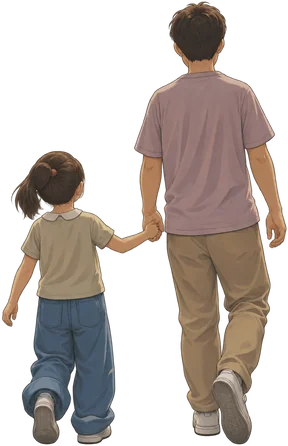
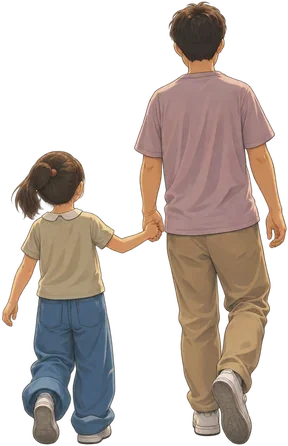
Polish family lighting, mobile layouts and social sharing

diff --git a/assets/site.css b/assets/site.css
@@ -58,9 +58,9 @@ a:focus-visible { outline: 2px solid var(--accent); outline-offset: 6px; }
 .mountains { position: absolute; left: 0; bottom: 0; width: 100%; height: 49%; object-fit: fill; }
 .ridge-light { opacity: 1; }
 .travelers { position: absolute; left: 73%; bottom: 8.5%; width: clamp(52px, 5.1vw, 82px); isolation: isolate; }
-.cast-shadow { position: absolute; z-index: -1; top: 95.5%; left: 0; width: 127%; height: auto; }
+.cast-shadow { position: absolute; z-index: -1; top: 97%; left: 2%; width: 119%; height: auto; opacity: .72; }
 .traveler { display: block; width: 100%; height: auto; }
-.contact-shadow { position: absolute; z-index: -1; bottom: 1%; left: 9%; width: 84%; height: 5%; background: radial-gradient(ellipse, #48352666, #48352600 72%); }
+.contact-shadow { position: absolute; z-index: -1; bottom: .6%; left: 12%; width: 78%; height: 3.6%; background: radial-gradient(ellipse, #48352670, #48352600 72%); }
 .header { position: relative; display: flex; align-items: center; justify-content: space-between; padding: 40px 4.5%; }
 .brand { display: inline-flex; align-items: center; gap: 11px; color: var(--ink); text-decoration: none; font: 500 14px/1 var(--sans); letter-spacing: .12em; }
 .brand-dot { color: var(--accent); }
@@ -96,8 +96,8 @@ time { font: 400 15px/1.5 Georgia, "Times New Roman", serif; letter-spacing: .17
   .travelers { bottom: 8.3%; }
 }
 @media (max-width: 600px) {
-  .page { min-height: 680px; }
-  .header { padding: 25px 24px; }
+  .page { min-height: 520px; }
+  .header { padding: max(25px, env(safe-area-inset-top)) max(24px, env(safe-area-inset-right)) 25px max(24px, env(safe-area-inset-left)); }
   .brand { font-size: 11px; gap: 8px; }
   .hero { top: 16%; left: 0; width: 100%; text-align: center; }
   .eyebrow { justify-content: center; margin: 0 0 12px; font-size: 8px; }
@@ -112,6 +112,24 @@ time { font: 400 15px/1.5 Georgia, "Times New Roman", serif; letter-spacing: .17
   .travelers { left: auto; right: 13%; bottom: 6.7%; width: 54px; }
   .side-note { display: none; }
   @keyframes sunrise { from { transform: translateY(42px); opacity: .55; } to { transform: translateY(0); opacity: 1; } }
+}
+/* Short phones keep the date above the sunrise without scrolling. */
+@media (max-width: 600px) and (max-height: 700px) {
+  .hero { top: 14%; }
+  h1 { font-size: clamp(110px, 29vw, 126px); }
+  .eyebrow { margin-bottom: 8px; }
+  .subtitle { margin-top: 12px; font-size: 16px; }
+  .date-line { margin-top: 16px; }
+  .sun-travel { top: 60%; left: calc(49% - 43px); width: 86px; }
+  .mountains { height: 40%; }
+  .travelers { width: 48px; }
+}
+/* Tall phones retain a connected composition instead of stretching the sky. */
+@media (max-width: 600px) and (min-height: 850px) {
+  .hero { top: 18%; }
+  .sun-travel { top: 57%; }
+  .mountains { height: 44%; }
+  .travelers { bottom: 7%; width: 56px; }
 }
 @media (max-height: 600px) and (min-width: 601px) {
   .page { min-height: 520px; }

diff --git a/index.html b/index.html
@@ -9,6 +9,18 @@
   <meta property="og:description" content="闻道 · 悟道 · 行道。2026.2.18" />
   <meta property="og:type" content="website" />
   <meta property="og:url" content="https://www.daopen.ai/" />
+  <meta property="og:site_name" content="DAOPEN.AI" />
+  <meta property="og:locale" content="zh_CN" />
+  <meta property="og:image" content="https://www.daopen.ai/assets/daopen-share.jpg" />
+  <meta property="og:image:type" content="image/jpeg" />
+  <meta property="og:image:width" content="1200" />
+  <meta property="og:image:height" content="630" />
+  <meta property="og:image:alt" content="书法道字、层叠山河与日出，父女牵手望向晨光。闻道 · 悟道 · 行道，2026.2.18。" />
+  <meta name="twitter:card" content="summary_large_image" />
+  <meta name="twitter:title" content="道 — DAOPEN.AI" />
+  <meta name="twitter:description" content="闻道 · 悟道 · 行道。2026.2.18" />
+  <meta name="twitter:image" content="https://www.daopen.ai/assets/daopen-share.jpg" />
+  <meta name="twitter:image:alt" content="书法道字、层叠山河与日出，父女牵手望向晨光。" />
   <link rel="canonical" href="https://www.daopen.ai/" />
   <link rel="icon" href="./assets/favicon.svg" type="image/svg+xml" />
   <link rel="preload" href="./assets/dao-calligraphy.ttf" as="font" type="font/ttf" crossorigin />

diff --git a/scripts/render-share.js b/scripts/render-share.js
@@ -1,0 +1,29 @@
+// Pass this function to Playwright CLI's run-code on the local homepage.
+// The cover is a separate, static asset; visitors do not download it.
+async (page) => {
+  const viewport = page.viewportSize();
+  let style;
+  try {
+    await page.emulateMedia({ reducedMotion: 'reduce' });
+    await page.setViewportSize({ width: 1200, height: 630 });
+    await page.evaluate(() => document.fonts.ready);
+    await page.evaluate(() => Promise.all([...document.images].map(image => image.decode())));
+    style = await page.addStyleTag({ content: `
+      .page { height: 630px; min-height: 630px; }
+      .header { padding: 40px 72px; }
+      .hero { top: 100px; left: 220px; }
+      h1 { font-size: 196px; }
+      .eyebrow { margin-bottom: 10px; }
+      .subtitle { margin-top: 14px; font-size: 21px; }
+      .date-line { margin-top: 22px; }
+      .mountains { height: 55%; }
+      .travelers { left: 73%; bottom: 8.5%; width: 72px; }
+      .side-note { display: none; }
+    ` });
+    await page.screenshot({ path: 'assets/daopen-share.jpg', type: 'jpeg', quality: 88 });
+  } finally {
+    if (style) await style.evaluate(node => node.remove());
+    await page.emulateMedia({ reducedMotion: null });
+    if (viewport) await page.setViewportSize(viewport);
+  }
+}

diff --git a/scripts/refine-family.py b/scripts/refine-family.py
@@ -1,0 +1,34 @@
+"""Bake subtle dawn lighting into the cutout; requires Pillow and NumPy.
+
+Run from any directory: python3 scripts/refine-family.py
+The original compressed artwork remains unchanged. No browser filters are needed.
+"""
+
+from pathlib import Path
+
+import numpy as np
+from PIL import Image, ImageEnhance, ImageFilter
+
+ASSETS = Path(__file__).resolve().parents[1] / "assets"
+source = Image.open(ASSETS / "family-cutout-v2.webp").convert("RGBA")
+alpha = source.getchannel("A")
+rgb = ImageEnhance.Color(source.convert("RGB")).enhance(0.82)
+rgb = ImageEnhance.Contrast(rgb).enhance(0.96)
+pixels = np.asarray(rgb, dtype=np.float32)
+height, width = pixels.shape[:2]
+y, x = np.mgrid[0:height, 0:width]
+
+# The sun is above and to the left: warm the light-facing side gently.
+light = (1 - x / width) * (1 - 0.55 * y / height)
+warmth = (0.035 + 0.045 * light)[..., None]
+pixels = pixels * (1 - warmth) + np.array([239, 201, 150]) * warmth
+
+# A restrained inner rim blends the cutout into the sky without a visible halo.
+mask = np.asarray(alpha, dtype=np.float32) / 255
+inner = np.asarray(alpha.filter(ImageFilter.MinFilter(5)), dtype=np.float32) / 255
+rim = (np.maximum(mask - inner, 0) * light * 0.16)[..., None]
+pixels = pixels * (1 - rim) + np.array([248, 221, 174]) * rim
+result = Image.fromarray(np.clip(pixels, 0, 255).astype("uint8"), "RGB").convert("RGBA")
+result.putalpha(Image.blend(alpha, alpha.filter(ImageFilter.GaussianBlur(0.45)), 0.18))
+result.save(ASSETS / "family-dawn.webp", quality=85, method=6)
+print(f"Saved family-dawn.webp: {(ASSETS / 'family-dawn.webp').stat().st_size:,} bytes")

diff --git a/README.md b/README.md
@@ -18,13 +18,24 @@ python3 -m http.server 4173 --bind 127.0.0.1
 - `assets/site.css`：响应式布局、配色和一次性日出动画。
 - `assets/site.js`：自动播放日出、后台暂停和减少动态效果支持。
 - `assets/landscape.svg`：矢量山景，无视频下载、滤镜动画或第三方脚本。
-- `assets/family-dawn.webp`：父女透明图，预先调整饱和度与暖色后压缩为 288×446 WebP；网页不运行人物滤镜，原版压缩图保留于 `family-cutout-v2.webp`。
+- `assets/family-dawn.webp`：父女透明图，预先调整饱和度、左上方晨光与轻微边缘柔化后压缩为 288×446 WebP；网页不运行人物滤镜，原版压缩图保留于 `family-cutout-v2.webp`。
 - `assets/family-shadow.webp`：根据人物透明轮廓生成的地面投影，柔化与渐隐已烘焙到图片中。
 - `assets/ridge-light.svg`：与山景对齐的晨光层，日出过程中仅动画透明度。
 - `assets/dao-calligraphy.ttf`：Ma Shan Zheng 的「道」单字子集，仅用于主标题；授权见 `assets/OFL-MaShanZheng.txt`。
 - `assets/dao-serif.ttf`：Noto Serif SC 500 的页面用字子集，自托管；授权见 `assets/OFL-NotoSerifSC.txt`。新增中文文案时，未包含的字会使用系统衬线字体。
+- `assets/daopen-share.jpg`：1200×630 的独立分享封面，供 Open Graph 与 Twitter Card 抓取，首页不加载此图。
 
 文字直接呈现，不做淡入或位移动画；日出和晨光用 10 秒展开一次后静止。页面无 JavaScript 时仍显示完整静态画面；开启系统“减少动态效果”时不播放动画。旧版视频与 `remotion-bg/` 保留为素材源，新首页不再加载它们。
+
+手机端使用稳定视口高度，分别适配 700px 以下短屏和 850px 以上长屏；最低画布高度为 520px，极矮视口仍允许纵向滚动以保留完整内容。
+
+## 素材维护
+
+人物图可通过 `python3 scripts/refine-family.py` 重新生成，开发环境需要 Pillow 和 NumPy；这些依赖不参与网页运行。
+
+分享封面来自当前页面的静态构图。启动本地预览并用 Playwright CLI 打开后，将 `scripts/render-share.js` 的函数内容传给 `run-code` 即可重新导出。生成时等待字体与图片加载，临时套用 1200×630 构图，不修改首页样式。
+
+分享元信息使用正式域名的绝对图片地址，上线后才可被外部平台抓取。各平台可能缓存旧预览；微信的实际卡片效果需上线后在微信内单独验证。
 
 ## 域名
 
